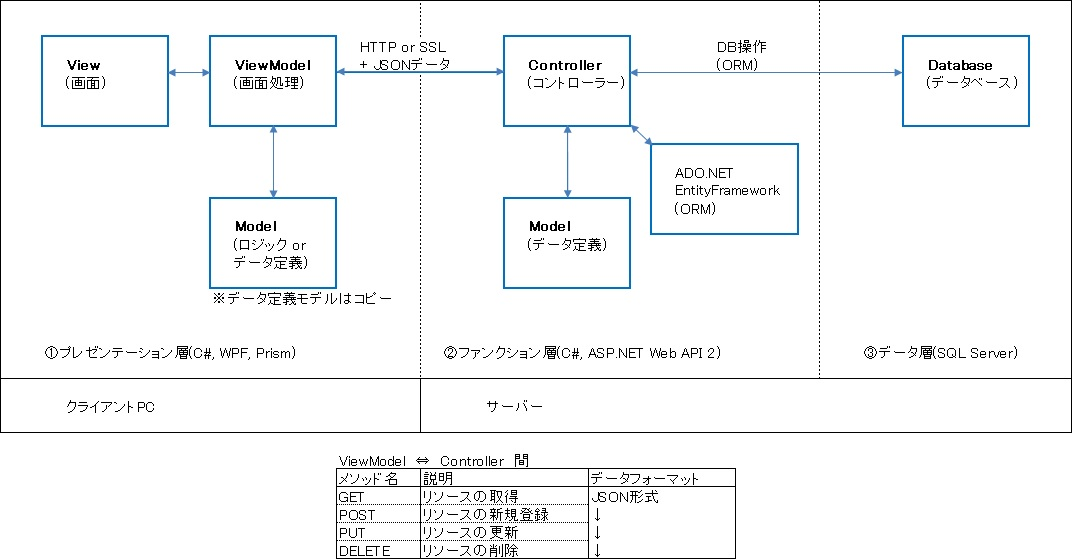
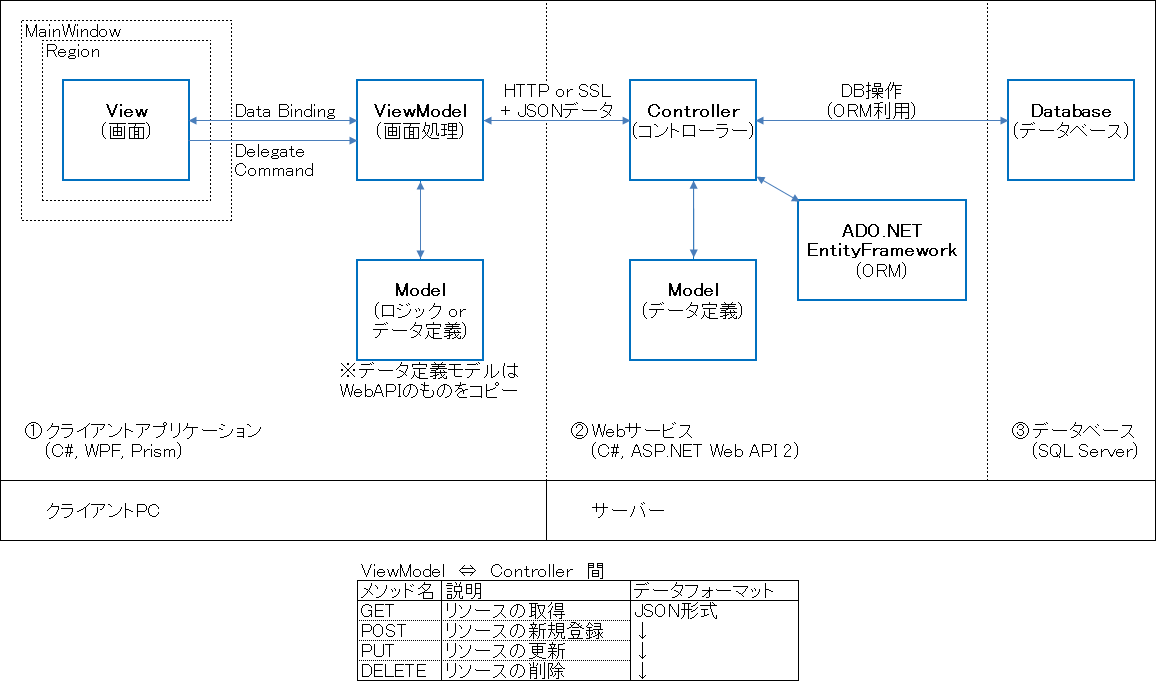
Commit

diff --git a/README.md b/README.md
@@ -1,0 +1,105 @@
+## C# WPF Application(Prism, MVVM pattern) + ASP.NET Web API 2, Sample project.
+
+C# WPFアプリケーション(Prism, MVVM パターン) + ASP.NET Web API 2 のサンプルプロジェクトです。<br />
+<br />
+WPFアプリケーション(Prism MVVM)のViewModelから、HttpClientでHTTP通信(JSON形式のデータ)を利用して、<br />
+ASP.NET Web API 2のコントローラーを実行します。RESTfulなサービスを提供する構成となっています。<br />
+<br />
+<br />
+### 【全体図】
+
+![Sample](README_img/wpf_webapi_image.png)
+<br />
+<br />
+Visual Studio Express 2012(C#5.0)で実行可能です。<br />
+サンプルプログラム自体は、マスタデータを取得・追加・更新・削除するシンプルな構成となっています。<br />
+実際の業務系システムの開発現場では単純なマスタデータの更新処理だけではありませんが、<br />
+このサンプルプログラムを利用して応用して作成していくことはできると思います。<br />
+<br />
+<br />
+### 【画面イメージ】
+
+![Sample](README_img/wpf_client_image.png)
+<br />
+<br />
+### 【アプリケーション仕様】
+
+①　クライアント<br />
+言語・アプリケーション　：　C#、WPFアプリケーション (Visual Studio Express 2012 for Windows Desktop)<br />
+主要パッケージ　　　　　：　Prism 6 (6.2), Prism 6 for Wpf (6.2), Unity for Prism 6 (6.2), Unity (4.0.1)<br />
+　　　　　　　　　　　　　　CommonServiceLocator (1.3)<br />
+　　　　　　　　　　　　　　Microsoft ASP.NET Web API 2.2 Client Libraries (5.2.6), Json.NET (9.0.1)<br />
+<br />
+②, ③　サーバー<br>
+言語・アプリケーション　：　C#、ASP.NET Web API 2(Visual Studio Express 2012 for Web)<br />
+主要パッケージ　　　　　：　Microsoft ASP.NET Web API 2.2 関係 (5.2.6), Json.NET (9.0.1)<br />
+　　　　　　　　　　　　　　ADO.NET Entity Framework (6.2)<br />
+データベース　　　　　　：　SQL Server Express 2012<br />
+<br />
+それぞれ2012版　に限定しているのは、オフラインインストールできる最新バージョンが2012までのため。<br />
+2013版以降であれば、WPFアプリと同様のXaml形式であるUWPアプリ, Xamarin FormsなどもPrismでそれぞれ準備されているので選択できそうです。<br />
+(Windowsフォームアプリは過去の技術)<br />
+<br />
+<br />
+### 【WPFアプリケーションのPrismで利用している主な機能】
+
+・ViewModelLocator(View-ViewModel関連付け)<br />
+・ViewModel→Viewへのエラー通知機能(BindableBaseを継承したAddBindableBaseに追加)<br />
+・Region + Navigation(画面遷移)<br />
+・Delegate command(デリゲートコマンド)<br />
+・Notification, Confirmation(ダイアログ)<br />
+・PropertyChange(画面へ反映)<br />
+・ViewDiscovery(起動時にログイン画面を表示)<br />
+・BootStrapper<br />
+※サンプルプログラムにはカスタムダイアログ(モーダルウィンドウ)を省略してます。別途追加予定。<br />
+<br />
+サンプルソースのWPFアプリケーションで使用しているPrism Wpfにより、<br />
+Prismを利用したことがない人でも、基本的な利用を始めやすいと思います。<br />
+<br />
+<br />
+<br />
+### 【ASP.NET Web API 2 with Entity Framework】
+
+Microsoft公式ドキュメント「Entity Framework 6 で Web API 2 を使用」にある、サンプルコードに準じたものです。<br />
+また、認証処理ではForms認証を利用してます。<br />
+<br />
+最初にプロジェクト実行時にMainWindowViewModelで、CookieContainerとHttpClientを準備します。<br />
+WPFアプリケーションのログイン画面でログイン要求して  →　ASP.NET Web API 2のAuthControllerで認証、レスポンスから、ユーザー名と権限IDをWPF側のMainWindowViewModelのプロパティに格納します。<br />
+<br />
+ASP.NET Web API 2で作成したEntityFrameworkで使用するPoco Modelは、WPFアプリケーション側にコピーして使用してます。<br />
+<br />
+<br />
+### 【実行方法】
+
+1、SQL Server Express 2012で好きな名前のデータベースを作成する。<br />
+　　※EntityFrameworkでORMを使用してしますのでデータベース種類は問わないかもしれません。<br />
+  　(Oracle, PostgreSQL, ...)<br />
+<br>
+2、Visual Studio Express 2012 for WebでASP.NET Web API 2のソリューションを起動して、<br />
+　　「プロジェクト　→　プロパティ　→　設定」でDebugConnectionString、ReleaseConnectionStringにデータベース接続方法を設定する。 <br />
+  　上記で作成したデータベースへテスト接続OKのこと。<br />
+　　パッケージマネージャのコンソールでEntityFrameworkのマイグレーション有効化、追加、<br />
+　　データベースアップデートを実行してください。<br />
+<br>
+3、SQL Server Management Studioで適当なデータを入力してください。<br />
+　　2つのテーブルがありますので、それぞれ1行追加でOKです。<br />
+　　M_Authorities　→ M‗Members の順に追加します。<br />
+　　※そのうちテストデータを用意するかもしれません。<br />
+<br>
+4、Visual Studio Express 2012 for Web　で開発用サーバーを指定してますので、<br />
+　　そのままプログラムを実行して下さい。<br />
+<br>
+5、Visual Studio Express 2012 for Windows Desktopのソリューションを起動して、<br />
+    MainWindowViewModelに書いてあるlocalhostのポート番号が合っているか確認して下さい。    
+　　プログラム実行するとログイン画面が表示されます。<br />
+   <br />
+<br />
+<br />
+### 【サンプルプログラムの既存の問題】
+
+・ログインパスワード暗号化とSSL化(HTTPS利用)しておきたい。Expressでは開発用サーバーにSSL使えない？<br />
+・ログイン要求で入手したMemberName、AuthorityIDの格納場所は、MainWindowViewModelのstaticプロパティで良いのか？<br />
+・httpサーバーのアドレスを、MainWindowViewModelのコンストラクタ内にベタ書きしてるので設定ファイルに移したほうが良いかな。<br />
+・他にも何か改善点があるかもしれません。<br />
+<br />
+<br />
